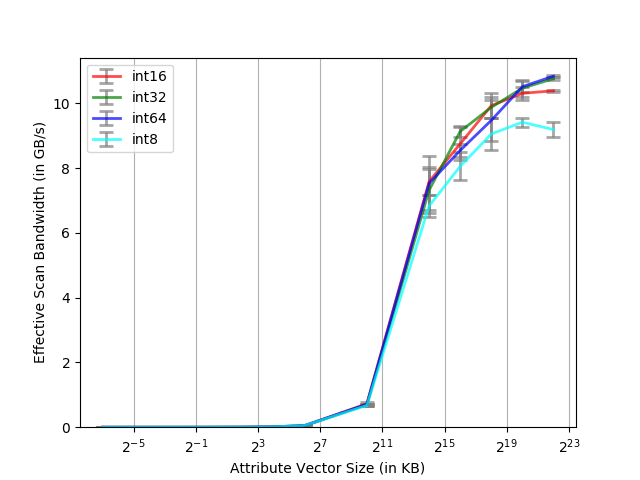
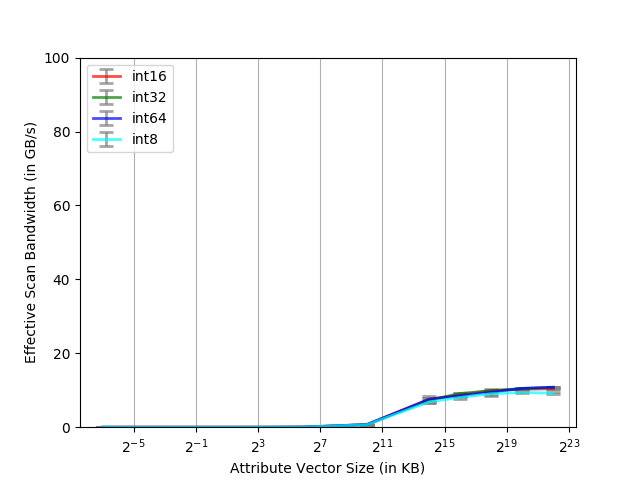
Fix scale to 100Gbps

diff --git a/generate_figures.py b/generate_figures.py
@@ -35,7 +35,7 @@ plt.xlabel('Attribute Vector Size (in KB)')
 plt.xscale('log', basex=2)
 plt.gca().xaxis.grid(True)
 plt.ylabel('Effective Scan Bandwidth (in GB/s)')
-plt.ylim(ymin=0)
+plt.ylim(ymin=0, ymax=100)
 plt.legend(loc=2, prop={'size': 10})
 plt.savefig(filename.replace('.csv','.png'))
 plt.clf()
